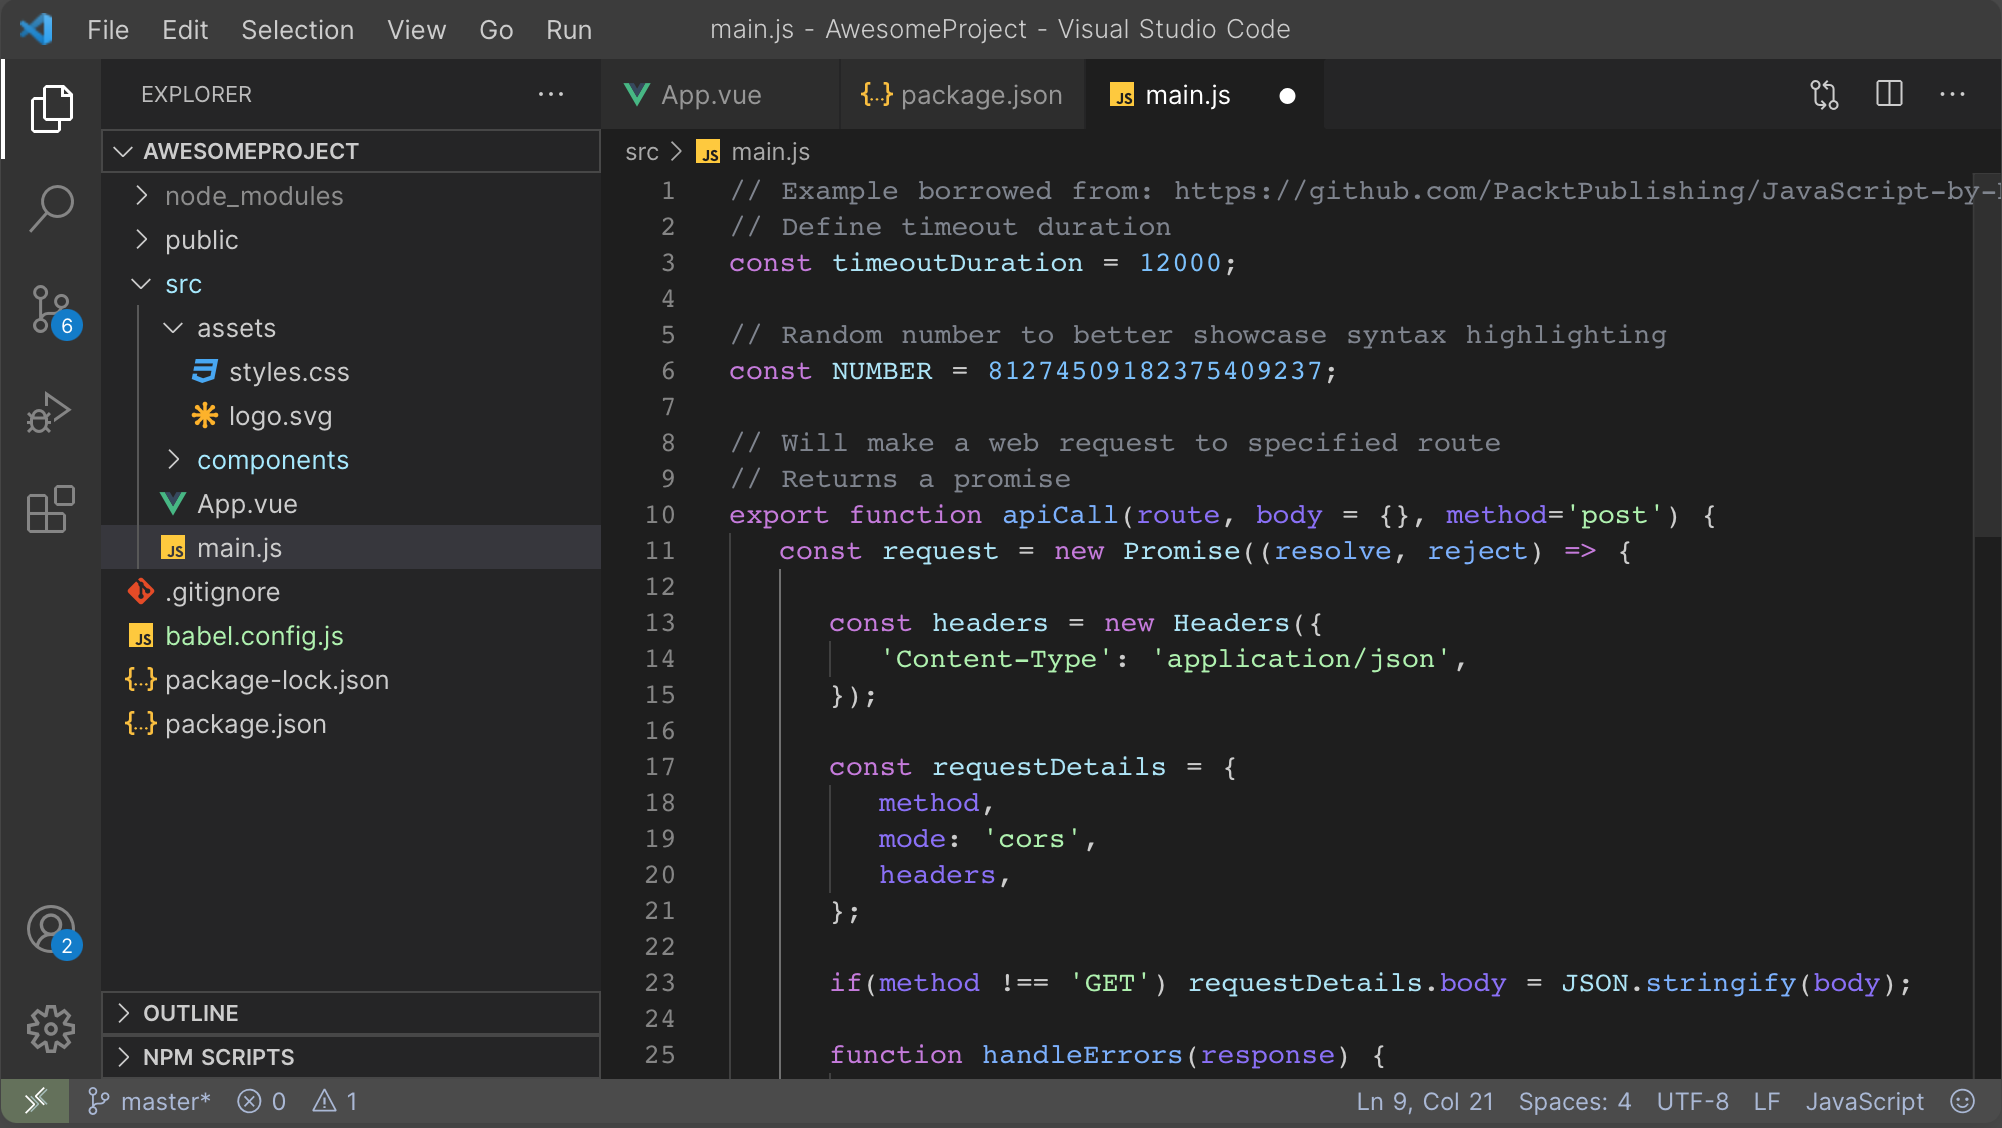
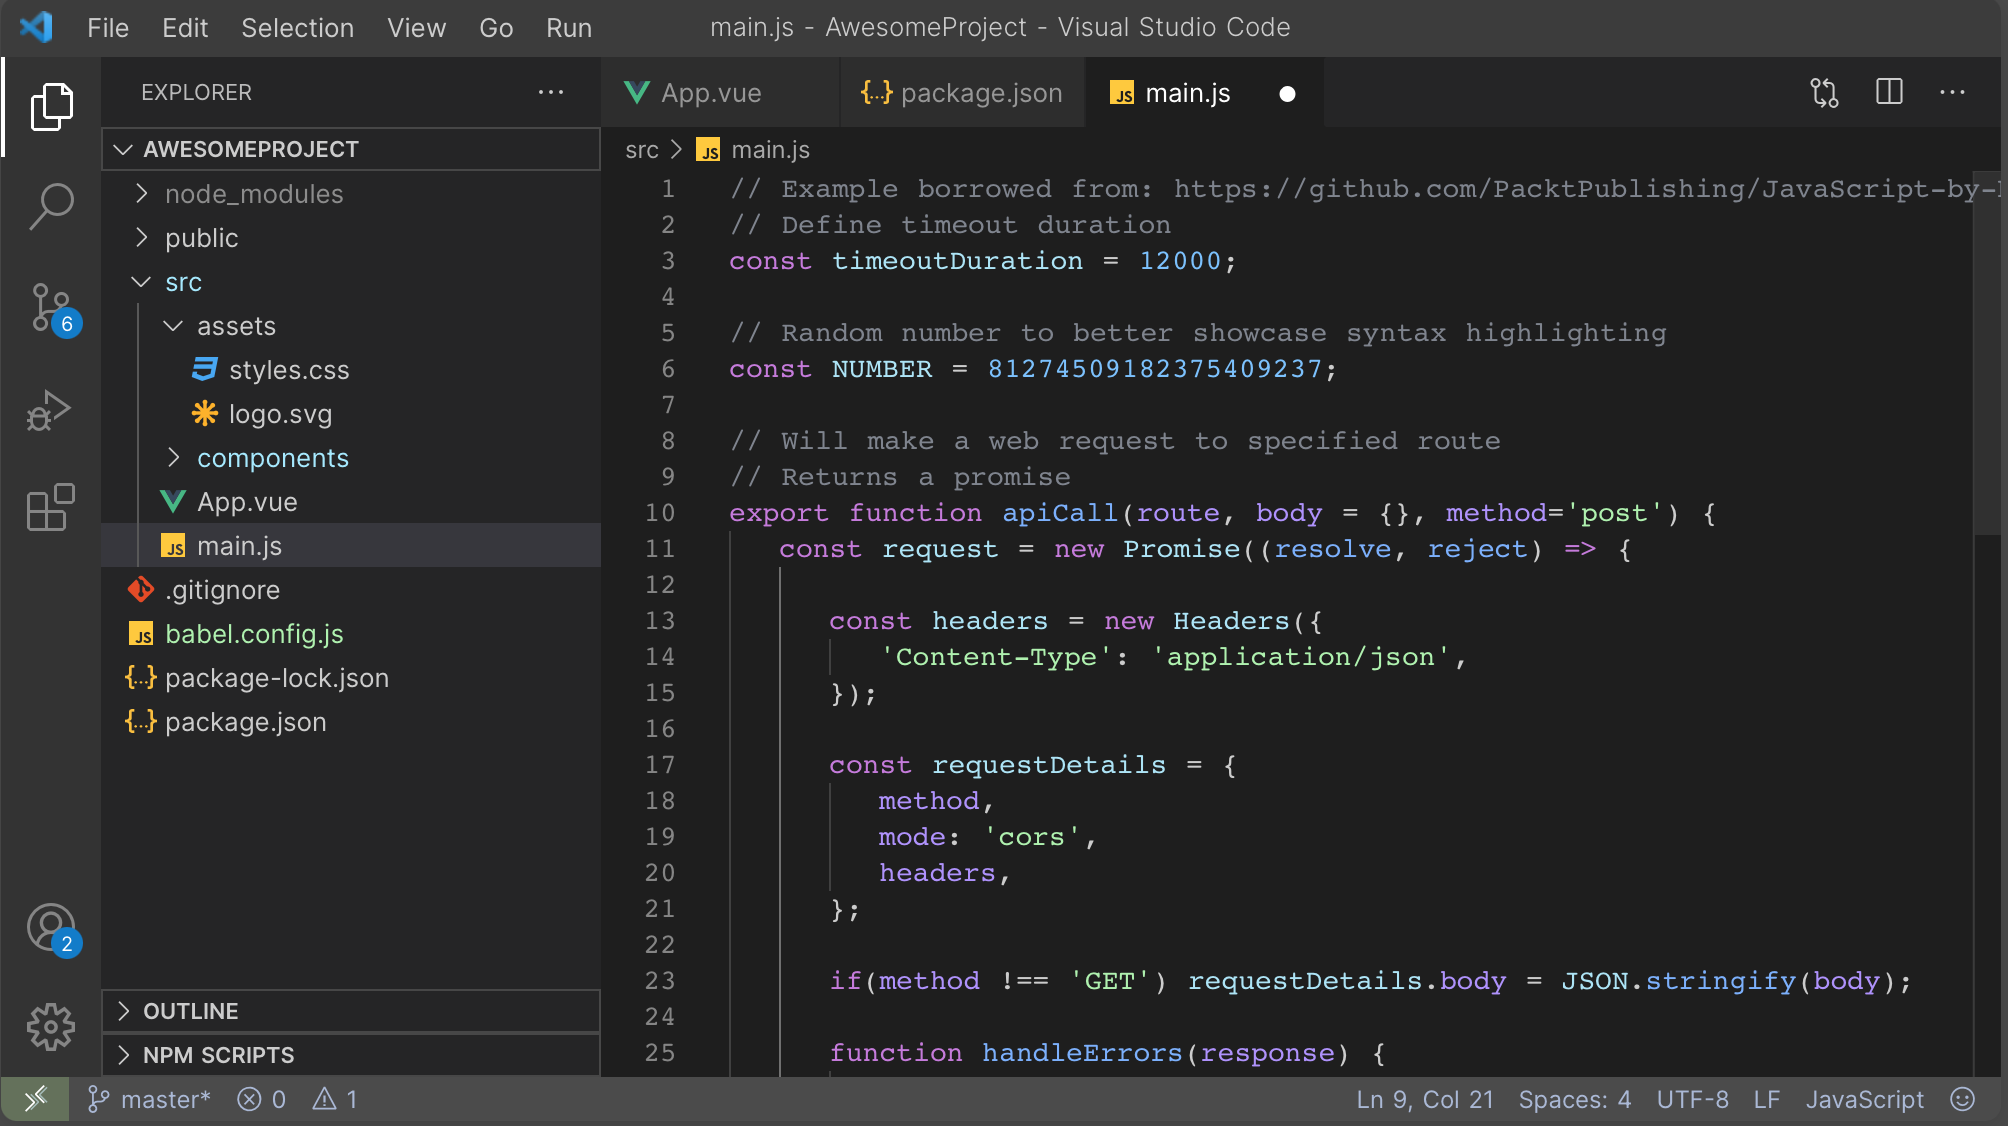
Changing property color slightly

diff --git a/CHANGELOG.md b/CHANGELOG.md
@@ -2,6 +2,9 @@
 
 All notable changes to the "dark-solarin-3" extension are documented in this file.
 
+## v1.0.2
+- Changed the property color slightly
+
 ## v1.0.1
 - Changed the property color slightly
 
